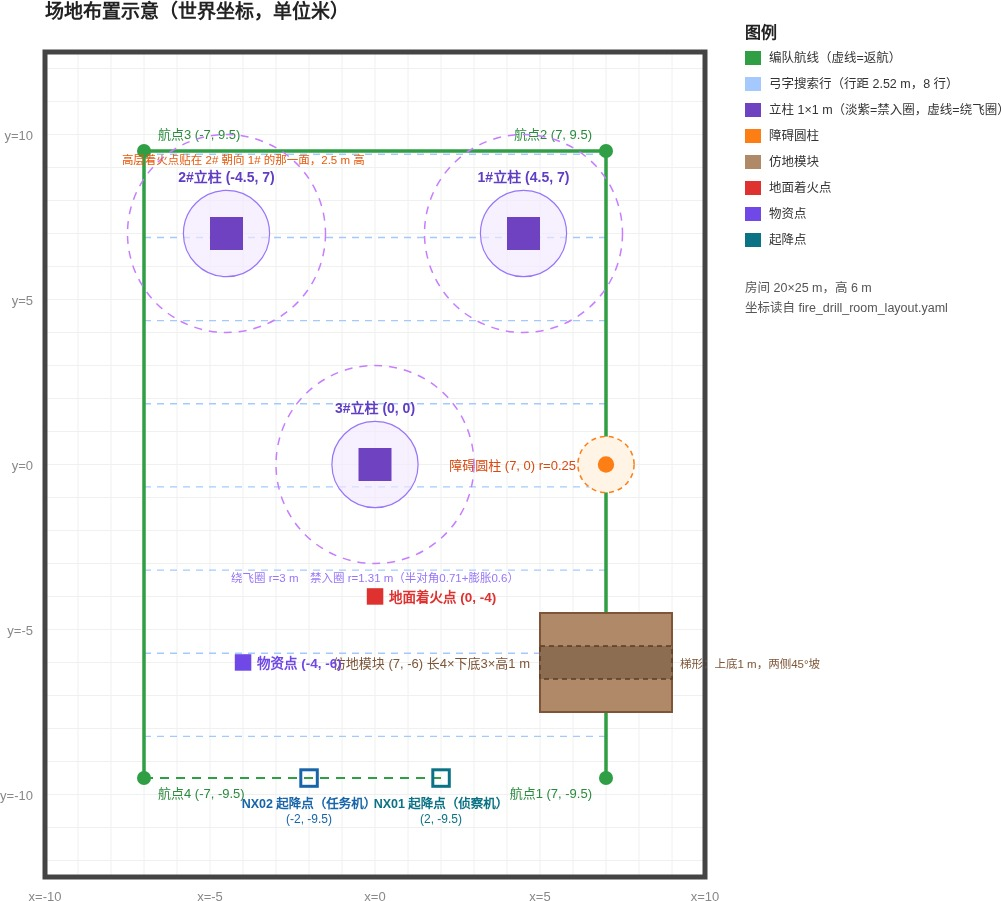
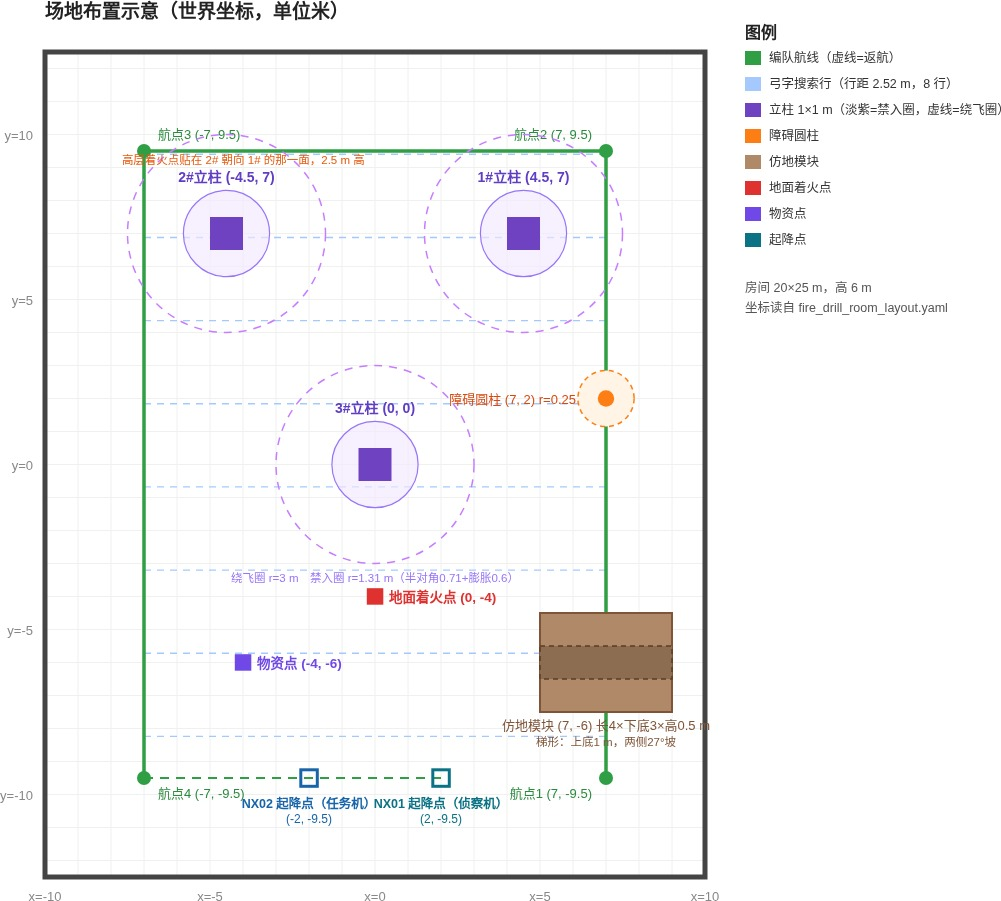
重画场地布置示意图：坡角按 yaml 现算（26.6°，不是写死的 45°），标注挪开
仿地模块改成 0.5 m 高之后，图上"两侧45°坡"就错了——那是模块 1 m 高时的值。改成
按 yaml 现算：单侧水平 (下底-上底)/2 = 1 m、抬高 0.5 m -> 26.6°，以后再改尺寸
图上自动跟着变。

模块标注从左侧挪到模块正下方：原来写在左边，跟同一条 y=-6 上的"物资点 (-4,-6)"
叠在一起了。

diff --git a/scripts/draw_layout.py b/scripts/draw_layout.py
@@ -98,11 +98,16 @@ def draw(layout, route, out_path):
     o.append(f'<rect x="{px(terr["x"]-terr["size_x"]/2):.1f}" y="{py(terr["y"]+top_w/2):.1f}" '
              f'width="{terr["size_x"]*SC:.1f}" height="{top_w*SC:.1f}" fill="#8c6d52" stroke="#5c3d22" '
              f'stroke-width="1.5" stroke-dasharray="5 4"/>')
-    o.append(f'<text x="{px(terr["x"]-terr["size_x"]/2)-10:.1f}" y="{py(terr["y"])+5:.1f}" font-size="13" '
-             f'fill="#7f5539" text-anchor="end">仿地模块 ({terr["x"]:g}, {terr["y"]:g}) 长{terr["size_x"]:g}×'
-             f'下底{terr["size_y"]:g}×高{terr["size_z"]:g} m</text>')
-    o.append(f'<text x="{px(terr["x"]+terr["size_x"]/2)+8:.1f}" y="{py(terr["y"])+5:.1f}" font-size="11.5" '
-             f'fill="#7f5539">梯形：上底{top_w:g} m，两侧45°坡</text>')
+    # 坡角按 yaml 现算，别写死：下底 3/上底 1/高 0.5 时单侧水平 1 m、抬高 0.5 m
+    # -> 26.6°（早先模块高 1 m 时才是 45°，改成 0.5 m 后图上那个 45° 就错了）
+    run = (terr['size_y'] - top_w) / 2.0
+    slope_deg = math.degrees(math.atan2(terr['size_z'], run)) if run > 1e-9 else 90.0
+    # 标注挪到模块正下方：写在左边会跟同一条 y 上的"物资点 (-4,-6)"叠在一起
+    o.append(f'<text x="{px(terr["x"]):.1f}" y="{py(terr["y"]-terr["size_y"]/2)+18:.1f}" font-size="13" '
+             f'fill="#7f5539" text-anchor="middle">仿地模块 ({terr["x"]:g}, {terr["y"]:g}) '
+             f'长{terr["size_x"]:g}×下底{terr["size_y"]:g}×高{terr["size_z"]:g} m</text>')
+    o.append(f'<text x="{px(terr["x"]):.1f}" y="{py(terr["y"]-terr["size_y"]/2)+34:.1f}" font-size="11.5" '
+             f'fill="#7f5539" text-anchor="middle">梯形：上底{top_w:g} m，两侧{slope_deg:.0f}°坡</text>')
 
     r = cyl['diameter'] / 2
     o.append(f'<circle cx="{px(cyl["x"]):.1f}" cy="{py(cyl["y"]):.1f}" r="{(r+INFLATE)*SC:.1f}" fill="#fff4e6" '
